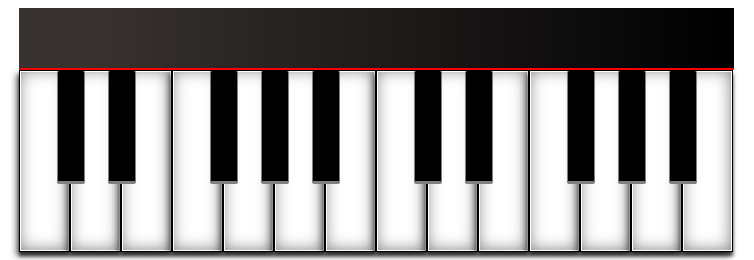
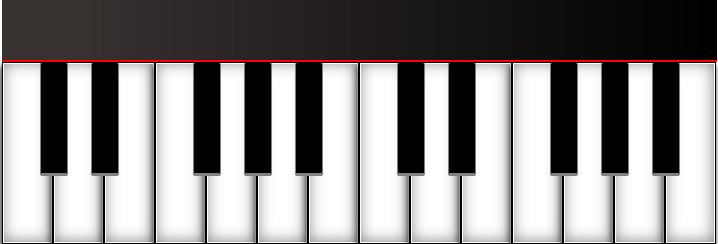
responsive and minor fixes

diff --git a/src/components/Projects.vue b/src/components/Projects.vue
@@ -5,7 +5,7 @@
         <li
           v-for="project in projects"
           v-bind:key="project.id"
-          @click="clickToactive(project.id)"
+          @click="ClickToActivate(project.id)"
         >
           <div :class="{ focus: projects[project.id].active }"> {{ project.name }} </div>
         </li>
@@ -31,16 +31,28 @@
           <p> {{ project.description }} </p>
           <p v-if="project.info"> {{ project.info}} </p>
           <div
-            class="coding-logo"
+            class="coding-info"
             v-if="project.coding"
           >
             <img
               :src="require(`@/assets/img/` + project.coding)"
               :alt="project.coding"
+              target="_blank"
             >
+            <ul class="links">
+              <li><a
+                  :href="project.githubLink"
+                  target="_blank"
+                >Project link</a></li>
+              <li><a
+                  :href="project.githubSource"
+                  target="_blank"
+                >Source code</a></li>
+            </ul>
           </div>
         </div>
       </div>
+
     </div>
   </div>
 </template>
@@ -54,7 +66,7 @@ export default {
           id: 0,
           name: "About me",
           description:
-            "Hey I'm Gert Vandormael a motivated web developer equipped with knowledge of html, css, javascript, vue.js and php.",
+            "Hey I'm Gert Vandormael a motivated web developer equipped with knowledge of HTML, CSS, JavaScript, Vue.js and PHP.",
           info: "Click on the projects above to see more info about them.",
           coding: null,
           img: null,
@@ -65,7 +77,8 @@ export default {
         {
           id: 1,
           name: "Idle game",
-          description: "Become the world's greatest band by clicking! Interactive page where clicking alters the content.",
+          description:
+            "Become the world's greatest band by clicking! Interactive page where clicking alters the content.",
           coding: "vue.png",
           img: "project-idle-game.png",
           githubLink: "https://gertvandormael.github.io/idle-game/",
@@ -86,7 +99,8 @@ export default {
         {
           id: 3,
           name: "Piano",
-          description: "In my free time I play piano so I recreated a playable piano with JavaScript",
+          description:
+            "In my free time I play piano so I recreated a playable piano with JavaScript",
           coding: "javascript.png",
           img: "project-piano.png",
           githubLink: "https://gertvandormael.github.io/piano/piano.html",
@@ -96,10 +110,11 @@ export default {
         {
           id: 4,
           name: "MVC webshop",
-          description: "Webshop made with a MVC structure as an introduction to PHP frameworks like Laravel and Symfony",
+          description:
+            "Webshop made with a MVC structure as an introduction to PHP frameworks like Laravel and Symfony",
           coding: "php.png",
           img: "project-mvc.png",
-          githubLink: null,
+          githubLink: "https://github.com/gertvandormael/mvc",
           githubSource: "https://github.com/gertvandormael/mvc",
           active: false
         }
@@ -116,7 +131,7 @@ export default {
   },
 
   methods: {
-    clickToactive(id) {
+    ClickToActivate(id) {
       for (let i = 0; i < this.projects.length; i++) {
         this.projects[i].active = false;
         this.projects[id].active = true;
@@ -127,25 +142,22 @@ export default {
 </script>
 
 <style scoped>
+/* Tabs */
 .tabs {
-  /* display: flex;
-  justify-content: space-between;
-  align-items: center; */
-  padding: 25px 0px 25px 0px;
   text-align: center;
 }
 
-li {
+.tabs li {
   background: -webkit-linear-gradient(#368F8B, #160F29);
   -webkit-background-clip: text;
   -webkit-text-fill-color: transparent;
   color: #d3c0d2;
-  font-size: .9rem;
+  font-size: 1.2rem;
   padding: 5px 0px 5px 0px;
   cursor: pointer;
 }
 
-li:hover {
+.tabs li:hover {
   background: -webkit-linear-gradient(#160F29, #368F8B);
   -webkit-background-clip: text;
   -webkit-text-fill-color: transparent;
@@ -153,11 +165,11 @@ li:hover {
 
 .focus {    
   color: #160F29;
-  font-size: .9rem;
+  font-size: 1.2rem;
   font-weight: 700;
-  border-bottom: #160F29 2px solid;
 }
 
+/* Projects section */
 .projects-description {
   display: flex;
   justify-content: center;
@@ -183,18 +195,27 @@ li:hover {
 
 .projects-description p {
   margin-bottom: 10px;
+  width: 300px
 }
 
-button {
-  background: none;
-  border: none;
-  outline-style: none;
-  font-family: "Montserrat", sans-serif;
+a {
+  text-decoration: none;
+  color: #368F8B;
 }
 
-.coding-logo img {
-  max-width: 45px;
-  max-height: 30px;
+a:hover {
+  color: #160F29;
+}
+
+.coding-info {
+  display: flex;
+  align-content: center;
+}
+
+.coding-info img {
+  max-width: 60px;
+  max-height: 36px;
+  margin-right: 8px;
 }
 
 
@@ -207,24 +228,34 @@ button {
     height: 100px;
   }
 
-}
-
-/* Large devices (desktops, 992px and up) */
- @media (min-width: 992px) { 
-
-  .tabs {
-    display: flex;
-    justify-content: space-between;
-    align-items: center;
-    height: 80px;
-  }
-
-  li {
+    .tabs li {
     font-size: 1.5rem;
   }
 
   .focus {    
     font-size: 1.5rem;
+    border-bottom: #160F29 2px solid;
+  }
+
+  .projects-description p {
+    width: 600px;
+  }
+
+  .project-img img {
+    max-width: 600px;
+    max-height: 500px;
+  }
+}
+
+/* Large devices (desktops, 992px and up) */
+ @media (min-width: 992px) { 
+  .tabs li {
+    font-size: 1.5rem;
+  }
+
+  .focus {    
+    font-size: 1.5rem;
+    border-bottom: #160F29 2px solid;
   }
 
   .projects-description {
@@ -235,18 +266,6 @@ button {
   .project-info {
     width: 600px;
   }
-
-  .project-img img {
-    max-width: 600px;
-    max-height: 500px;
-  }
-
-  
-
 }
-
-
-
-
 </style>
 

diff --git a/src/App.vue b/src/App.vue
@@ -57,8 +57,9 @@ h2 {
     font-size: 1.2rem;
 }
 
-/* // Small devices (landscape phones, 576px and up) */
-@media (min-width: 992px) {
+
+/* // Medium devices (tablets, 768px and up) */
+@media (min-width: 768px) { 
   h1 {
     font-size: 2rem;
   }
@@ -66,7 +67,10 @@ h2 {
   h2 {
     font-size: 1.5rem;
   }
+}
 
+/* // Large devices (desktops, 992px and up) */
+@media (min-width: 992px) {
   body {
     min-height: 750px;
   }

diff --git a/src/components/Header.vue b/src/components/Header.vue
@@ -36,14 +36,18 @@ export default {};
   -webkit-text-fill-color: transparent;
 }
 
+/* // Medium devices (tablets, 768px and up) */
+@media (min-width: 768px) {
+  .fab {
+    font-size: 3rem;
+  }
+}
+
+
 /* Large devices (desktops, 992px and up) */
 @media (min-width: 992px) {
   .header {
     width: 800px;
-  }
-
-  .fab {
-    font-size: 3rem;
   }
 }
 

diff --git a/src/main.js b/src/main.js
@@ -1,8 +1,8 @@
 import Vue from 'vue'
 import App from './App.vue'
-import VTooltip from 'v-tooltip'
+import Vue2TouchEvents from 'vue2-touch-events'
 
-Vue.use(VTooltip)
+Vue.use(Vue2TouchEvents)
 
 Vue.config.productionTip = false
 
